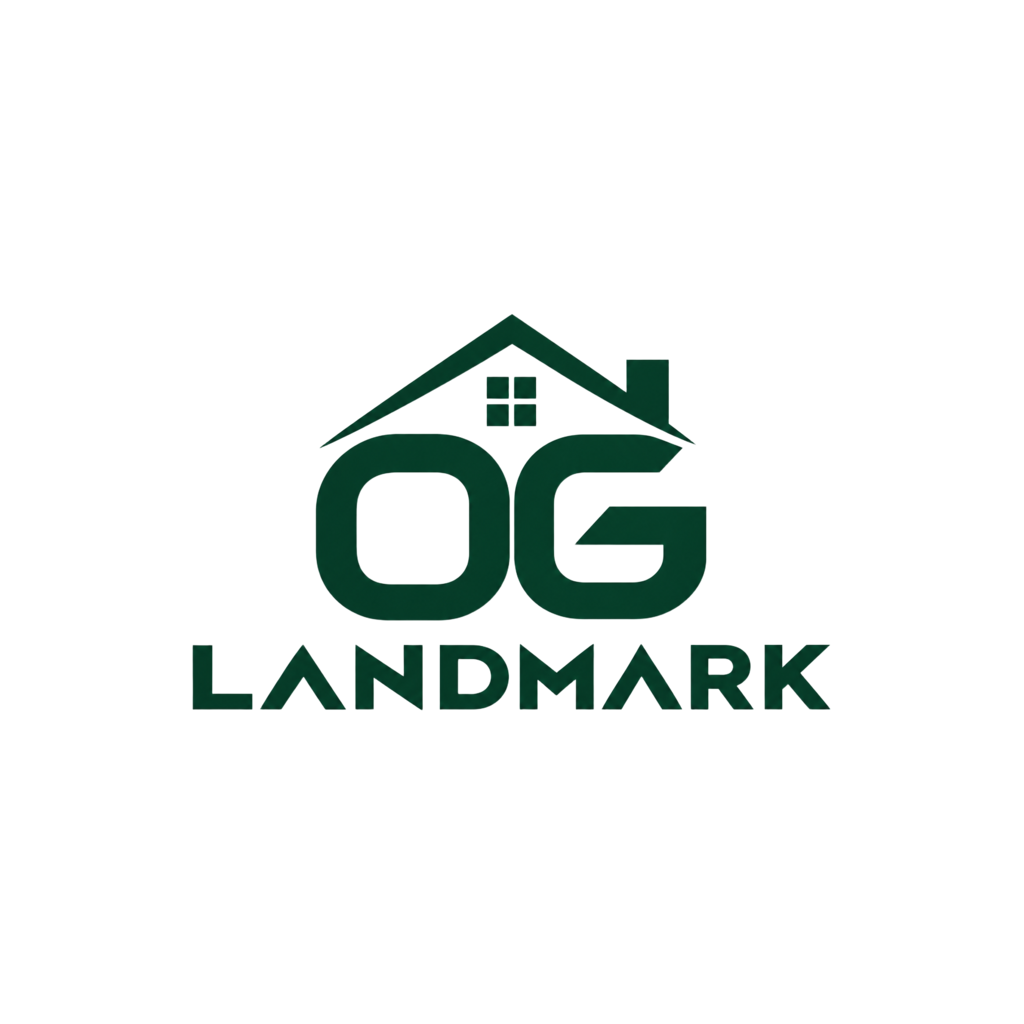
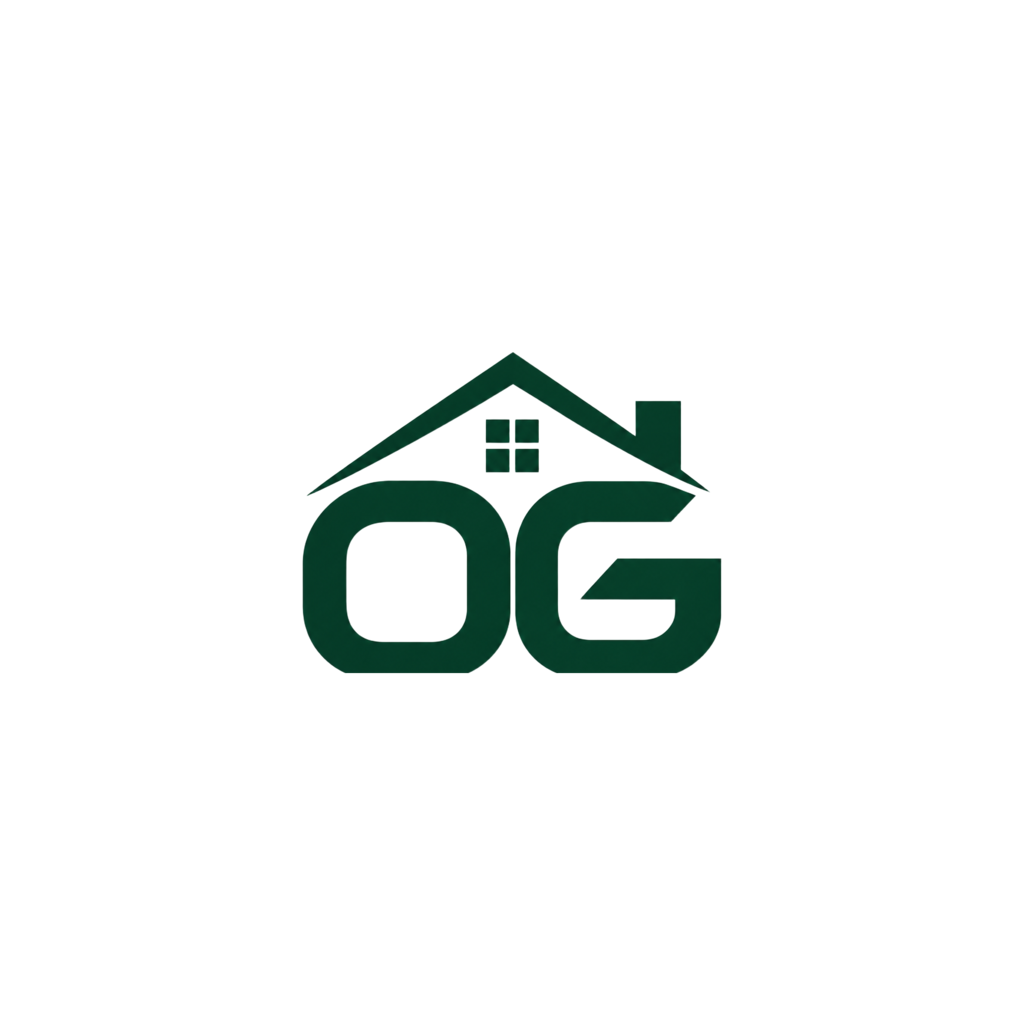
Update mobile brand assets and simplify layout components
Replit-Commit-Author: Agent

Changed region(s): [[0.1875, 0.3125, 0.8125, 0.7188]]

diff --git a/artifacts/og-landmark-mobile/components/OGLandmarkLogo.tsx b/artifacts/og-landmark-mobile/components/OGLandmarkLogo.tsx
@@ -1,45 +1,23 @@
 /** OG Landmark brand assets supplied by the product owner. */
 import React from 'react';
-import { Image, View } from 'react-native';
+import { Image } from 'react-native';
 
 const logoAsset = require('@/assets/images/og-landmark-brand-mark.png');
-const splashLogoAsset = require('@/assets/images/og-landmark-brand-transparent.png');
+const inverseLogoAsset = require('@/assets/images/og-landmark-brand-mark-white.png');
 
 export function OGLandmarkLogo({
   size = 80,
-  variant = 'ui',
+  inverse = false,
 }: {
   size?: number;
-  variant?: 'ui' | 'splash';
+  inverse?: boolean;
 }) {
-  if (variant === 'splash') {
-    return (
-      <Image
-        source={splashLogoAsset}
-        style={{ width: size, height: size }}
-        resizeMode="contain"
-        accessibilityLabel="OG Landmark logo"
-      />
-    );
-  }
-
   return (
-    <View
-      style={{
-        width: size,
-        height: size,
-        alignItems: 'center',
-        justifyContent: 'center',
-        backgroundColor: '#ffffff',
-        borderRadius: Math.round(size * 0.22),
-      }}
-    >
-      <Image
-        source={logoAsset}
-        style={{ width: size * 0.88, height: size * 0.88 }}
-        resizeMode="contain"
-        accessibilityLabel="OG Landmark logo"
-      />
-    </View>
+    <Image
+      source={inverse ? inverseLogoAsset : logoAsset}
+      style={{ width: size, height: size }}
+      resizeMode="contain"
+      accessibilityLabel="OG Landmark logo"
+    />
   );
 }

diff --git a/artifacts/og-landmark-mobile/app/_layout.tsx b/artifacts/og-landmark-mobile/app/_layout.tsx
@@ -185,9 +185,7 @@ function RootLayoutNav() {
   if (isLoading) {
     return (
       <View style={[rootStyles.loading, { backgroundColor: colors.actionDeep }]}>
-        <OGLandmarkLogo size={92} variant="splash" />
-        <Text style={[rootStyles.loadingBrand, { color: colors.actionForeground }]}>OG Landmark</Text>
-        <Text style={[rootStyles.loadingCaption, { color: colors.gold }]}>REAL ESTATE</Text>
+        <OGLandmarkLogo size={92} inverse />
         <View style={rootStyles.loadingStatus}>
           <ActivityIndicator color={colors.gold} size="small" />
           <Text style={[rootStyles.loadingStatusText, { color: colors.actionForeground }]}>Preparing your experience</Text>
@@ -231,18 +229,6 @@ const rootStyles = {
     alignItems: 'center' as const,
     justifyContent: 'center' as const,
     paddingHorizontal: 32,
-  },
-  loadingBrand: {
-    fontFamily: 'PlayfairDisplay_600SemiBold',
-    fontSize: 24,
-    letterSpacing: 0.2,
-    marginTop: 18,
-  },
-  loadingCaption: {
-    fontFamily: 'Inter_700Bold',
-    fontSize: 9,
-    letterSpacing: 2.6,
-    marginTop: 4,
   },
   loadingStatus: {
     flexDirection: 'row' as const,

diff --git a/artifacts/og-landmark-mobile/components/BrandMark.tsx b/artifacts/og-landmark-mobile/components/BrandMark.tsx
@@ -16,7 +16,7 @@ export function BrandMark({
   const colors = useColors();
   return (
     <View style={[styles.container, size === 'hero' && styles.heroContainer]}>
-      <OGLandmarkLogo size={size === 'hero' ? (!showName ? 116 : 68) : 46} />
+      <OGLandmarkLogo size={size === 'hero' ? (!showName ? 116 : 68) : 46} inverse={inverse} />
       {showName && (
         <View>
           <Text style={[styles.title, { color: inverse ? colors.background : colors.foreground }, size === 'hero' && styles.heroTitle]}>OG Landmark</Text>

diff --git a/artifacts/og-landmark-mobile/components/VideoWatermark.tsx b/artifacts/og-landmark-mobile/components/VideoWatermark.tsx
@@ -30,7 +30,7 @@ export function VideoWatermark({
           },
         ]}
       >
-        <OGLandmarkLogo size={compact ? 22 : 32} />
+        <OGLandmarkLogo size={compact ? 22 : 32} inverse />
         <Text style={[styles.title, compact && styles.compactTitle, { color: colors.actionForeground }]}>OG Landmark</Text>
         <View style={[styles.glint, { backgroundColor: colors.actionGlassHighlight }]} />
       </View>

diff --git a/.agents/memory/mobile-polish-guardrails.md b/.agents/memory/mobile-polish-guardrails.md
@@ -3,8 +3,8 @@ name: Mobile polish guardrails
 description: Durable UI rules for extending the OG Landmark Expo app without changing its product identity or creating invalid web markup.
 ---
 
-Use the shared semantic tokens and reusable controls for new mobile UI, while preserving the current deep-green/gold identity, user-supplied OG house mark, and navigation. Interactive property cards must keep their image, favorite, share, and media controls outside the body detail press target; do not nest pressable controls inside another pressable.
+Use the shared semantic tokens and reusable controls for new mobile UI, while preserving the current deep-green/gold identity, user-supplied OG house mark, and navigation. Use a transparent symbol-only logo without the LANDMARK wordmark for app icons, splash screens, and compact headers; use the white inverse mark on deep-green surfaces and the green mark on light surfaces. Interactive property cards must keep their image, favorite, share, and media controls outside the body detail press target; do not nest pressable controls inside another pressable.
 
-**Why:** The user replaced the former navy identity with deep green across the mobile app. The app is also rendered on web through React Native Web, where nested pressables become nested HTML buttons and produce hydration/runtime errors. Central tokens keep the visual language consistent across the many legacy screens.
+**Why:** The user replaced the former navy identity with deep green across the mobile app and specified symbol-only logo artwork without a background badge or the LANDMARK wordmark on mobile launch surfaces. The app is also rendered on web through React Native Web, where nested pressables become nested HTML buttons and produce hydration/runtime errors. Central tokens keep the visual language consistent across the many legacy screens.
 
 **How to apply:** Extend `PolishedUI` and the semantic color/layout tokens before adding one-off controls. For cards, make the body the detail target and leave media/action controls as sibling press targets. Respect reduced-motion settings in shared animations.
